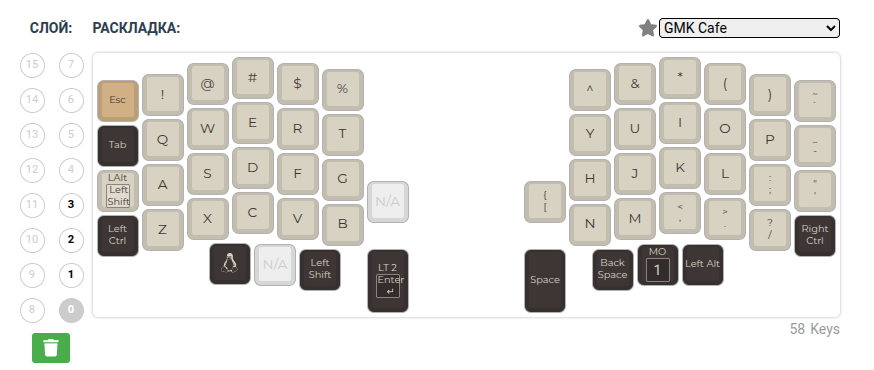
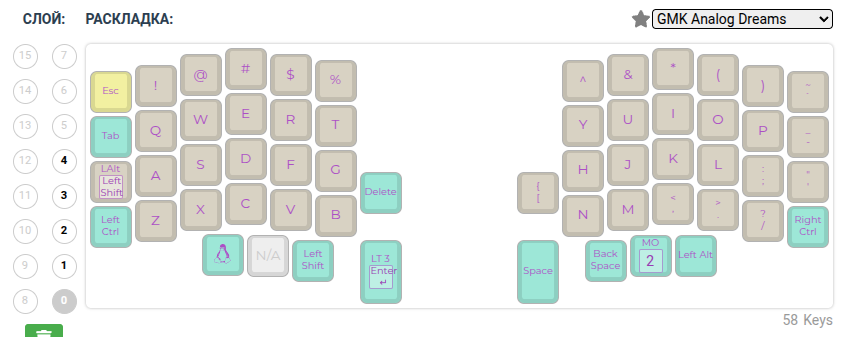
Обновлена раскладка

diff --git a/druotoni/keymap.c b/druotoni/keymap.c
@@ -10,10 +10,11 @@
  * edit it directly.
  */
 const uint16_t PROGMEM keymaps[][MATRIX_ROWS][MATRIX_COLS] = {
-    [0] = LAYOUT(KC_ESC, KC_EXLM, KC_AT, KC_HASH, KC_DLR, KC_PERC, KC_CIRC, KC_AMPR, KC_ASTR, KC_LPRN, KC_RPRN, KC_GRV, KC_TAB, KC_Q, KC_W, KC_E, KC_R, KC_T, KC_Y, KC_U, KC_I, KC_O, KC_P, KC_MINS, LALT(KC_LSFT), KC_A, KC_S, KC_D, KC_F, KC_G, KC_H, KC_J, KC_K, KC_L, KC_SCLN, KC_QUOT, KC_LCTL, KC_Z, KC_X, KC_C, KC_V, KC_B, KC_NO, KC_LBRC, KC_N, KC_M, KC_COMM, KC_DOT, KC_SLSH, KC_RCTL, KC_LGUI, KC_NO, KC_LSFT, LT(2,KC_ENT), KC_SPC, KC_BSPC, MO(1), KC_LALT),
-    [1] = LAYOUT(TO(0), KC_F1, KC_F2, KC_F3, KC_F4, KC_F5, KC_F6, KC_F7, KC_F8, KC_F9, KC_F10, KC_F11, KC_TRNS, KC_NO, LCTL(KC_INS), LSFT(KC_INS), KC_NO, KC_NO, KC_HOME, KC_PGDN, KC_PGUP, KC_END, KC_NO, KC_F12, KC_TRNS, KC_NO, KC_NO, KC_NO, KC_NO, KC_NO, KC_LEFT, KC_DOWN, KC_UP, KC_RGHT, KC_BSLS, KC_QUOT, KC_TRNS, KC_NO, KC_NO, KC_NO, KC_NO, KC_NO, KC_TRNS, KC_RBRC, LCTL(KC_LEFT), LCTL(KC_DOWN), LCTL(KC_UP), LCTL(KC_RGHT), KC_NO, KC_TRNS, KC_TRNS, KC_TRNS, KC_TRNS, KC_TRNS, KC_TRNS, KC_TRNS, KC_TRNS, KC_TRNS),
-    [2] = LAYOUT(TO(0), KC_F1, KC_F2, KC_F3, KC_F4, KC_F5, KC_F6, KC_F7, KC_F8, KC_F9, KC_F10, KC_F11, KC_TRNS, QK_BOOT, KC_NO, KC_NO, KC_NO, KC_NO, KC_LBRC, KC_LCBR, KC_RCBR, KC_RBRC, KC_PMNS, KC_F12, KC_TRNS, KC_1, KC_2, KC_3, KC_4, KC_5, KC_6, KC_7, KC_8, KC_9, KC_0, KC_PAST, KC_TRNS, KC_NO, KC_NO, KC_NO, KC_NO, KC_NO, KC_TRNS, KC_APP, KC_NO, KC_EQL, KC_PPLS, KC_DOT, KC_PSLS, KC_TRNS, KC_TRNS, KC_TRNS, KC_TRNS, KC_TRNS, KC_TRNS, KC_TRNS, KC_TRNS, KC_TRNS),
-    [3] = LAYOUT(TO(0), KC_NO, KC_NO, KC_NO, KC_NO, KC_NO, KC_NUM, KC_INS, KC_PSCR, KC_APP, KC_NO, KC_NO, KC_TRNS, KC_NO, KC_RSFT, KC_RCTL, KC_RALT, KC_NO, KC_NO, KC_NO, LSFT(KC_INS), LCTL(KC_INS), KC_NO, KC_NO, KC_TRNS, KC_NO, KC_SCRL, KC_PAUS, KC_CAPS, KC_NO, LALT(KC_LEFT), LALT(KC_DOWN), LALT(KC_UP), LALT(KC_RGHT), KC_NO, KC_DQUO, KC_TRNS, KC_NO, KC_NO, KC_NO, KC_NO, KC_NO, KC_TRNS, KC_NO, KC_NO, KC_NO, KC_NO, KC_NO, KC_NO, KC_TRNS, KC_TRNS, KC_TRNS, KC_TRNS, KC_TRNS, KC_TRNS, KC_TRNS, KC_TRNS, KC_TRNS)
+    [0] = LAYOUT(KC_ESC, KC_EXLM, KC_AT, KC_HASH, KC_DLR, KC_PERC, KC_CIRC, KC_AMPR, KC_ASTR, KC_LPRN, KC_RPRN, KC_GRV, KC_TAB, KC_Q, KC_W, KC_E, KC_R, KC_T, KC_Y, KC_U, KC_I, KC_O, KC_P, KC_MINS, LALT(KC_LSFT), KC_A, KC_S, KC_D, KC_F, KC_G, KC_H, KC_J, KC_K, KC_L, KC_SCLN, KC_QUOT, KC_LCTL, KC_Z, KC_X, KC_C, KC_V, KC_B, KC_DEL, KC_LBRC, KC_N, KC_M, KC_COMM, KC_DOT, KC_SLSH, KC_RCTL, KC_LGUI, KC_NO, KC_LSFT, LT(3,KC_ENT), KC_SPC, KC_BSPC, MO(2), KC_LALT),
+    [1] = LAYOUT(KC_ESC, KC_1, KC_2, KC_3, KC_4, KC_5, KC_6, KC_7, KC_8, KC_9, KC_0, TO(0), KC_TRNS, KC_TRNS, KC_W, KC_E, KC_R, KC_T, KC_Y, KC_U, KC_I, KC_O, KC_P, KC_MINS, KC_LSFT, KC_A, KC_S, KC_D, KC_F, KC_G, KC_H, KC_J, KC_K, KC_L, KC_SCLN, KC_QUOT, KC_TRNS, KC_Z, KC_X, KC_C, KC_V, KC_B, LALT(KC_LSFT), KC_LBRC, KC_N, KC_M, KC_COMM, KC_DOT, KC_SLSH, KC_TRNS, KC_TRNS, KC_LALT, KC_TRNS, KC_SPC, KC_ENT, KC_TRNS, KC_TRNS, KC_GRV),
+    [2] = LAYOUT(TO(0), KC_F1, KC_F2, KC_F3, KC_F4, KC_F5, KC_F6, KC_F7, KC_F8, KC_F9, KC_F10, KC_F11, KC_TRNS, KC_NO, LCTL(KC_INS), LSFT(KC_INS), KC_NO, KC_NO, KC_HOME, KC_PGDN, KC_PGUP, KC_END, KC_NO, KC_F12, KC_TRNS, KC_NO, KC_NO, KC_NO, KC_NO, KC_NO, KC_LEFT, KC_DOWN, KC_UP, KC_RGHT, KC_BSLS, KC_QUOT, KC_TRNS, KC_NO, KC_NO, KC_NO, KC_NO, KC_NO, KC_TRNS, KC_RBRC, LCTL(KC_LEFT), LCTL(KC_DOWN), LCTL(KC_UP), LCTL(KC_RGHT), KC_NO, KC_TRNS, KC_TRNS, KC_TRNS, KC_TRNS, KC_TRNS, KC_TRNS, KC_TRNS, KC_TRNS, KC_TRNS),
+    [3] = LAYOUT(TO(0), KC_F1, KC_F2, KC_F3, KC_F4, KC_F5, KC_F6, KC_F7, KC_F8, KC_F9, KC_F10, KC_F11, KC_TRNS, QK_BOOT, KC_DEL, KC_NO, KC_NO, KC_NO, KC_LBRC, KC_LCBR, KC_RCBR, KC_RBRC, KC_PMNS, KC_F12, KC_TRNS, KC_1, KC_2, KC_3, KC_4, KC_5, KC_6, KC_7, KC_8, KC_9, KC_0, KC_PAST, KC_TRNS, KC_NO, KC_NO, KC_NO, KC_NO, KC_NO, KC_TRNS, KC_APP, KC_NO, KC_EQL, KC_PPLS, KC_DOT, KC_PSLS, KC_TRNS, KC_TRNS, KC_TRNS, KC_TRNS, KC_TRNS, KC_TRNS, KC_TRNS, KC_TRNS, KC_TRNS),
+    [4] = LAYOUT(TO(0), KC_NO, KC_NO, KC_NO, KC_NO, KC_NO, KC_NUM, KC_INS, KC_PSCR, KC_APP, KC_NO, KC_NO, KC_TRNS, TG(1), KC_RSFT, KC_RCTL, KC_RALT, KC_NO, KC_NO, KC_NO, LSFT(KC_INS), LCTL(KC_INS), KC_NO, KC_NO, KC_TRNS, KC_NO, KC_SCRL, KC_PAUS, KC_CAPS, KC_NO, LALT(KC_LEFT), LALT(KC_DOWN), LALT(KC_UP), LALT(KC_RGHT), KC_NO, KC_DQUO, KC_TRNS, KC_NO, KC_NO, KC_NO, KC_NO, KC_NO, KC_TRNS, KC_NO, KC_NO, KC_NO, KC_NO, KC_NO, KC_NO, KC_TRNS, KC_TRNS, KC_TRNS, KC_TRNS, KC_TRNS, KC_TRNS, KC_TRNS, KC_TRNS, KC_TRNS)
 };
 
 #if defined(ENCODER_ENABLE) && defined(ENCODER_MAP_ENABLE)

diff --git a/druotoni/keymap.h b/druotoni/keymap.h
@@ -2,11 +2,11 @@
 
 #include QMK_KEYBOARD_H
 
-const uint16_t PROGMEM MO3_combo[] = {KC_BSPC, MO(1), COMBO_END};
+const uint16_t PROGMEM MO3_combo[] = {KC_BSPC, MO(2), COMBO_END};
 // const uint16_t PROGMEM alt_shift_combo[] = {KC_LSFT, MO(2), COMBO_END};
 
 combo_t key_combos[] = {
-    COMBO(MO3_combo, MO(3))
+    COMBO(MO3_combo, MO(4))
     // ,
     // COMBO(alt_shift_combo, LALT(KC_LSFT))
 };
@@ -16,6 +16,6 @@ combo_t key_combos[] = {
 const key_override_t delete_key_override = ko_make_basic(MOD_MASK_SHIFT, KC_BSPC, KC_DEL);
 
 const key_override_t *key_overrides[] = {
-	&delete_key_override
+	// &delete_key_override
 };
 

diff --git a/README.md b/README.md
@@ -8,6 +8,8 @@
 
 ![](./images/3.png)
 
+![](./images/4.png)
+
 # Сборка vial для Lily58
 
 ## Подготовка
